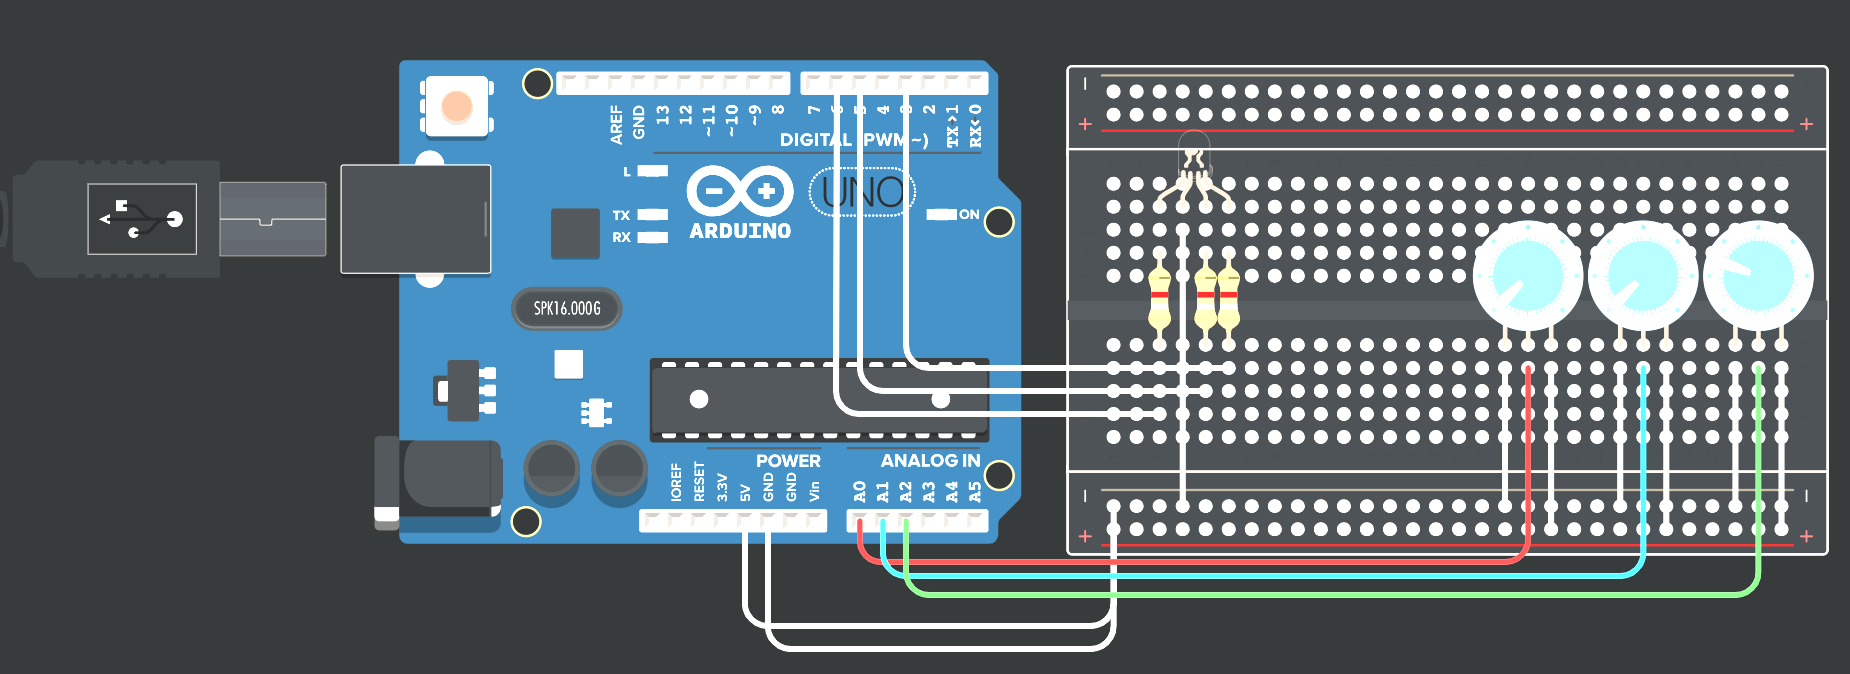
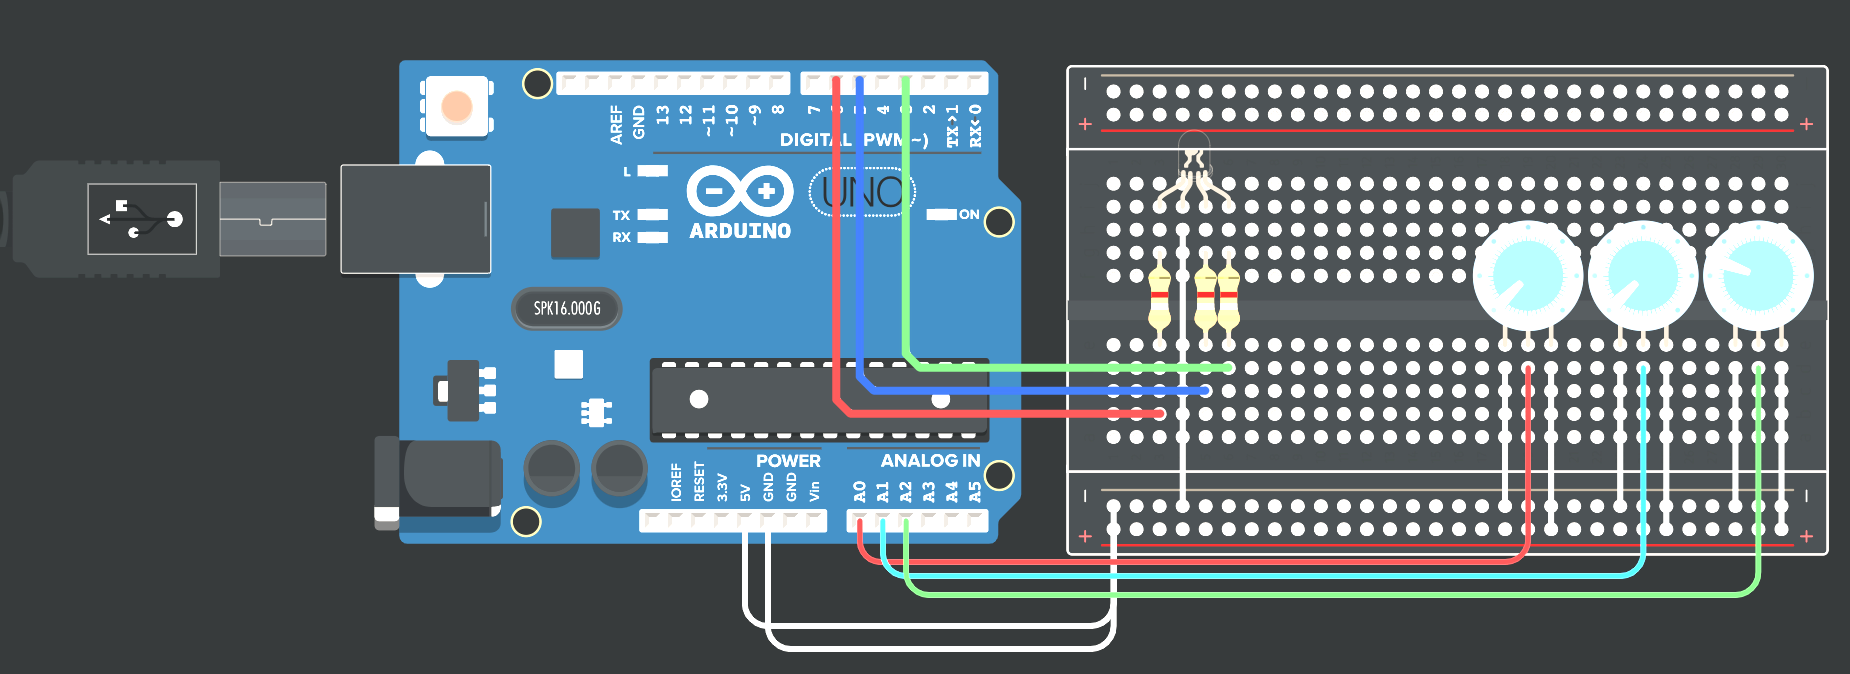
Color L6 pin wires and note RGB LED leg order
Show the pin 6, 5 and 3 wires in the L6 image as red, blue and green,
matching the LED leg each one drives. Add the Tinkercad leg order to
the README and a note that a real RGB LED can use a different order.

Changed region(s): [[0.4314, 0.0935, 0.6778, 0.6231]]

diff --git a/README.md b/README.md
@@ -53,6 +53,17 @@ Common-cathode RGB LED. Long leg on GND. Red leg on pin 6, green leg on pin 3, b
 
 ![L6 circuit](L6-rgb-led/circuit.png)
 
+The pin wires in the image have the color of the LED leg they drive.
+
+| LED leg (left to right, in Tinkercad) | Connects to |
+|---------------------------------------|-------------|
+| 1 – red | resistor → pin 6 |
+| 2 – common cathode (longest) | GND |
+| 3 – blue | resistor → pin 5 |
+| 4 – green | resistor → pin 3 |
+
+> **Note:** This leg order is for the Tinkercad RGB LED. A real RGB LED can have a different order. Many common-cathode LEDs use red, cathode, green, blue, but it changes between makers and batches. Before you wire a real LED, find the longest leg (cathode, to GND). Then touch each other leg to 5V through a resistor and see which color it lights. Connect each color to its pin in the code.
+
 ## How to run
 
 1. Open the `.ino` file in the Arduino IDE.
